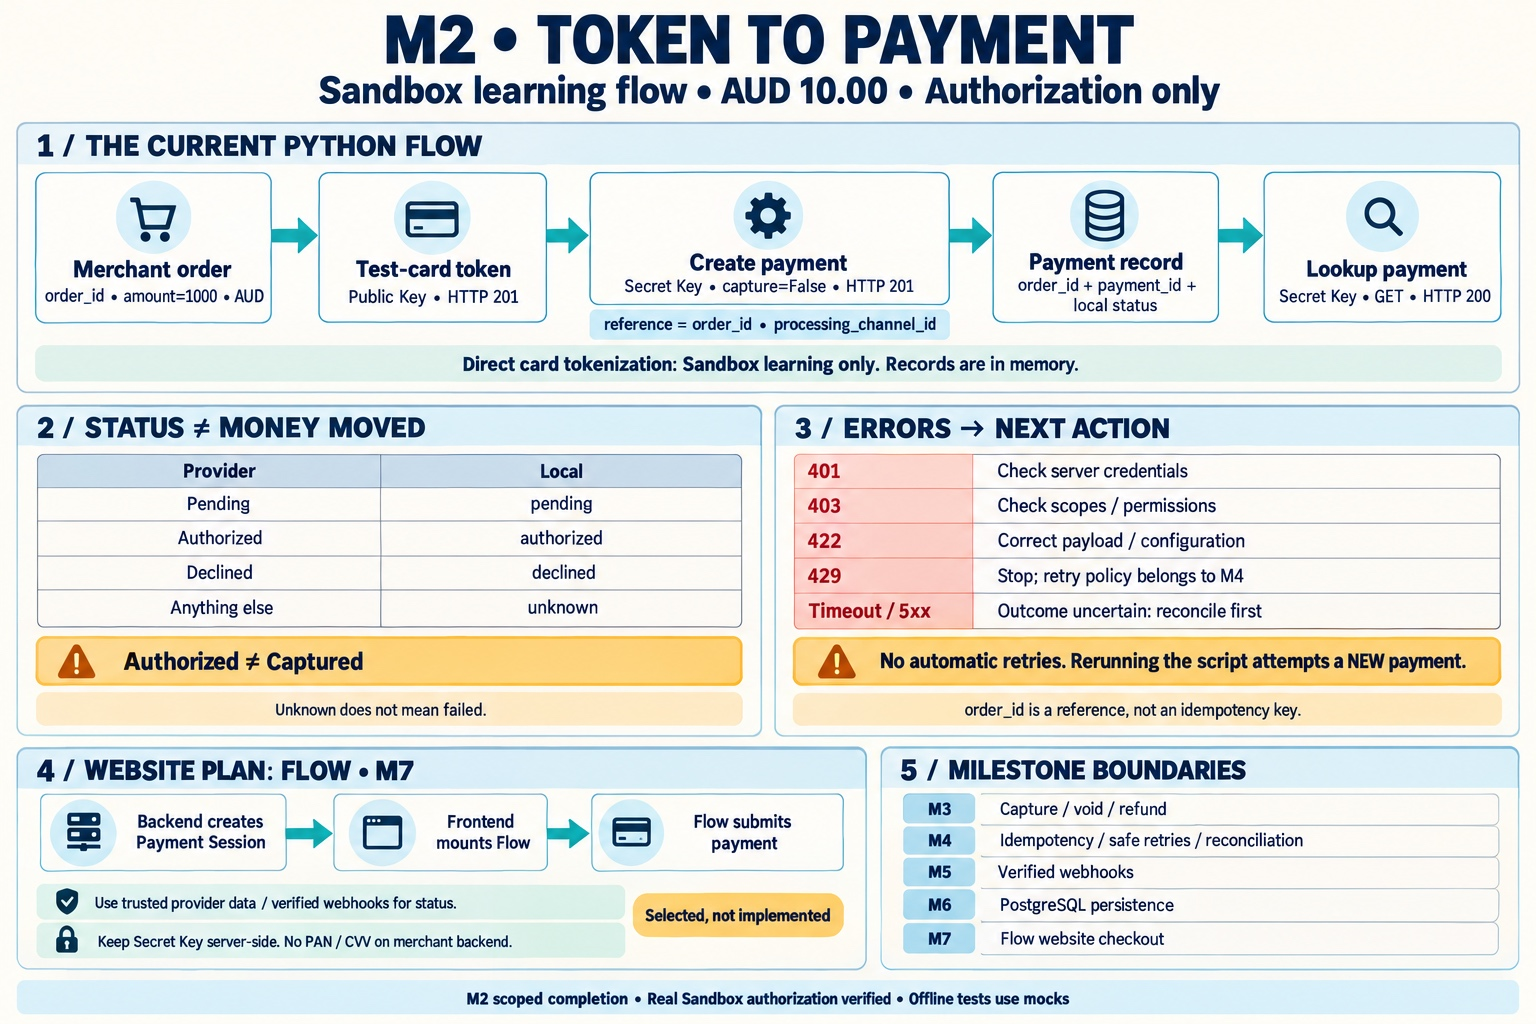
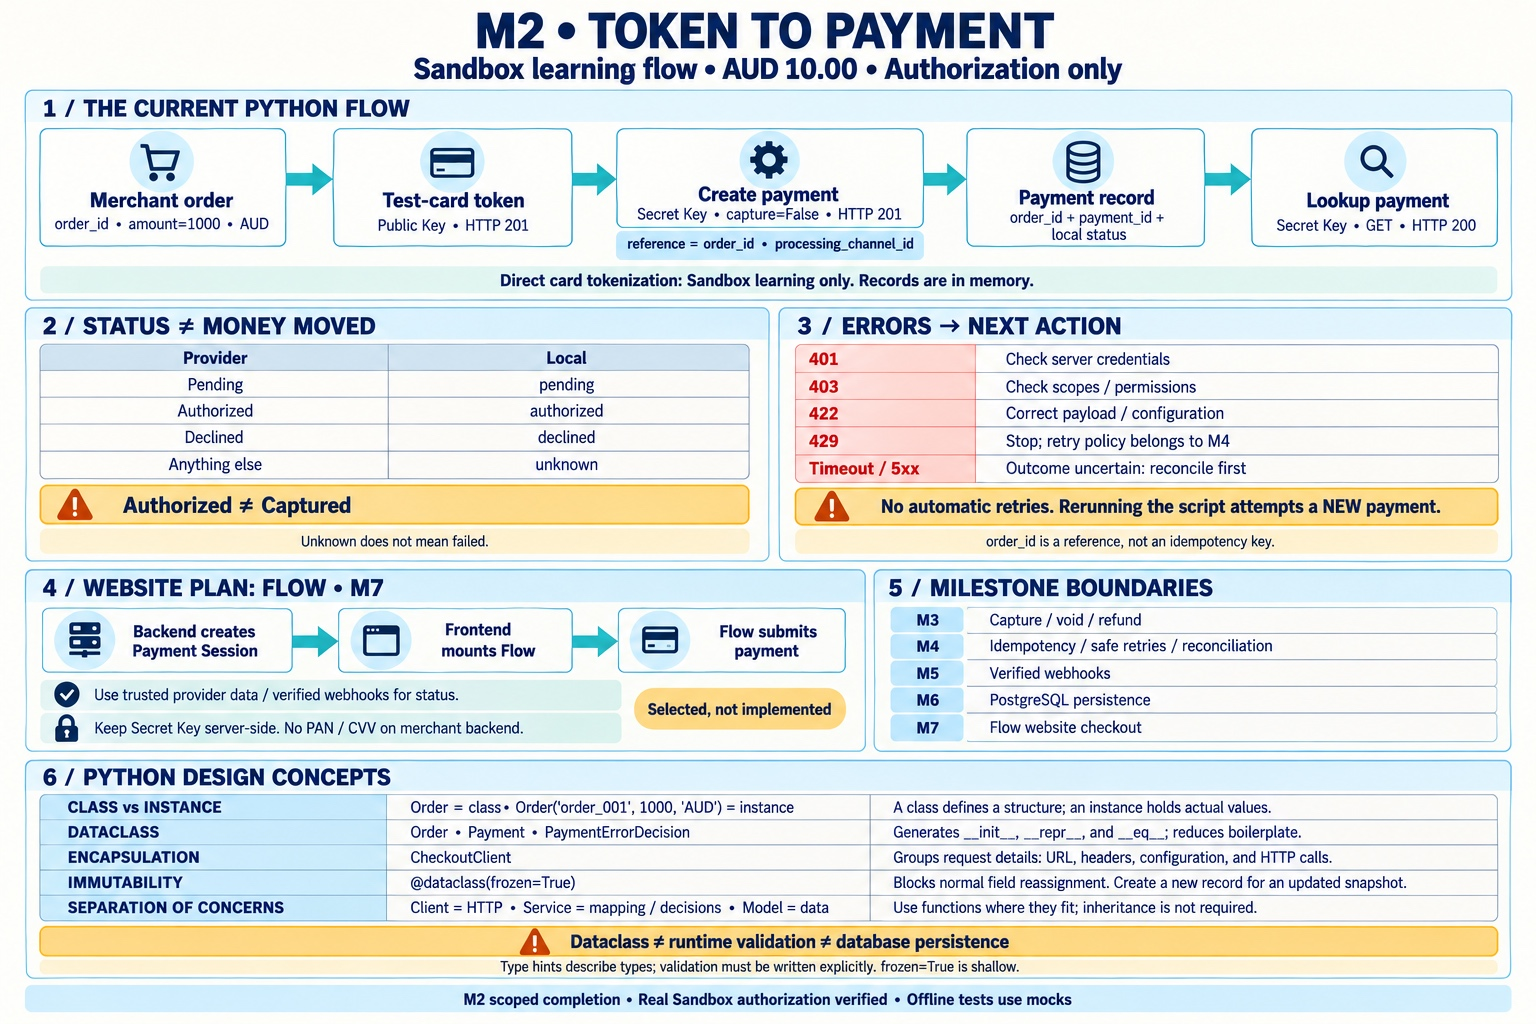
updated m2 cheat sheet

diff --git a/docs/m2-completion.md b/docs/m2-completion.md
@@ -73,6 +73,26 @@ could create another payment. Flow setup, account scopes, authorization-only
 configuration, and endpoint details must be verified when implementing M7.
 No Payment Session endpoint or frontend component has been implemented in M2.
 
+## Python design concepts
+
+| Concept | Project example | Why it helps |
+| --- | --- | --- |
+| Class vs instance | `Order` vs `Order("order_001", 1000, "AUD")` | The class defines the structure; each instance holds its own values. |
+| Dataclass | `Order`, `Payment`, `PaymentErrorDecision` | Generates methods such as `__init__`, `__repr__`, and `__eq__`, reducing boilerplate. |
+| Encapsulation | `CheckoutClient` | Groups configuration, URLs, authentication headers, and HTTP calls behind client methods. |
+| Immutability | `@dataclass(frozen=True)` | Blocks ordinary field reassignment; create a new record for an updated payment snapshot. |
+| Separation of concerns | Client, service functions, models | HTTP details, application decisions, and data structures have distinct responsibilities. |
+
+Dataclasses are a Python tool for expressing data, not a separate OOP principle.
+Type hints do not enforce runtime validation: `payment_from_response()` explicitly
+checks the required response fields. Neither a dataclass nor `frozen=True` saves
+anything to a database. Freezing is shallow: mutable objects inside fields would
+still be mutable; the current models contain strings and integers.
+
+Service logic can remain plain functions. No inheritance hierarchy is needed
+for the current design. An immutable `Payment` is a snapshot, not a live object
+that updates itself when the provider's status changes.
+
 ## Remaining milestones
 
 - M3: Capture, void, refund operations and their state mappings.
